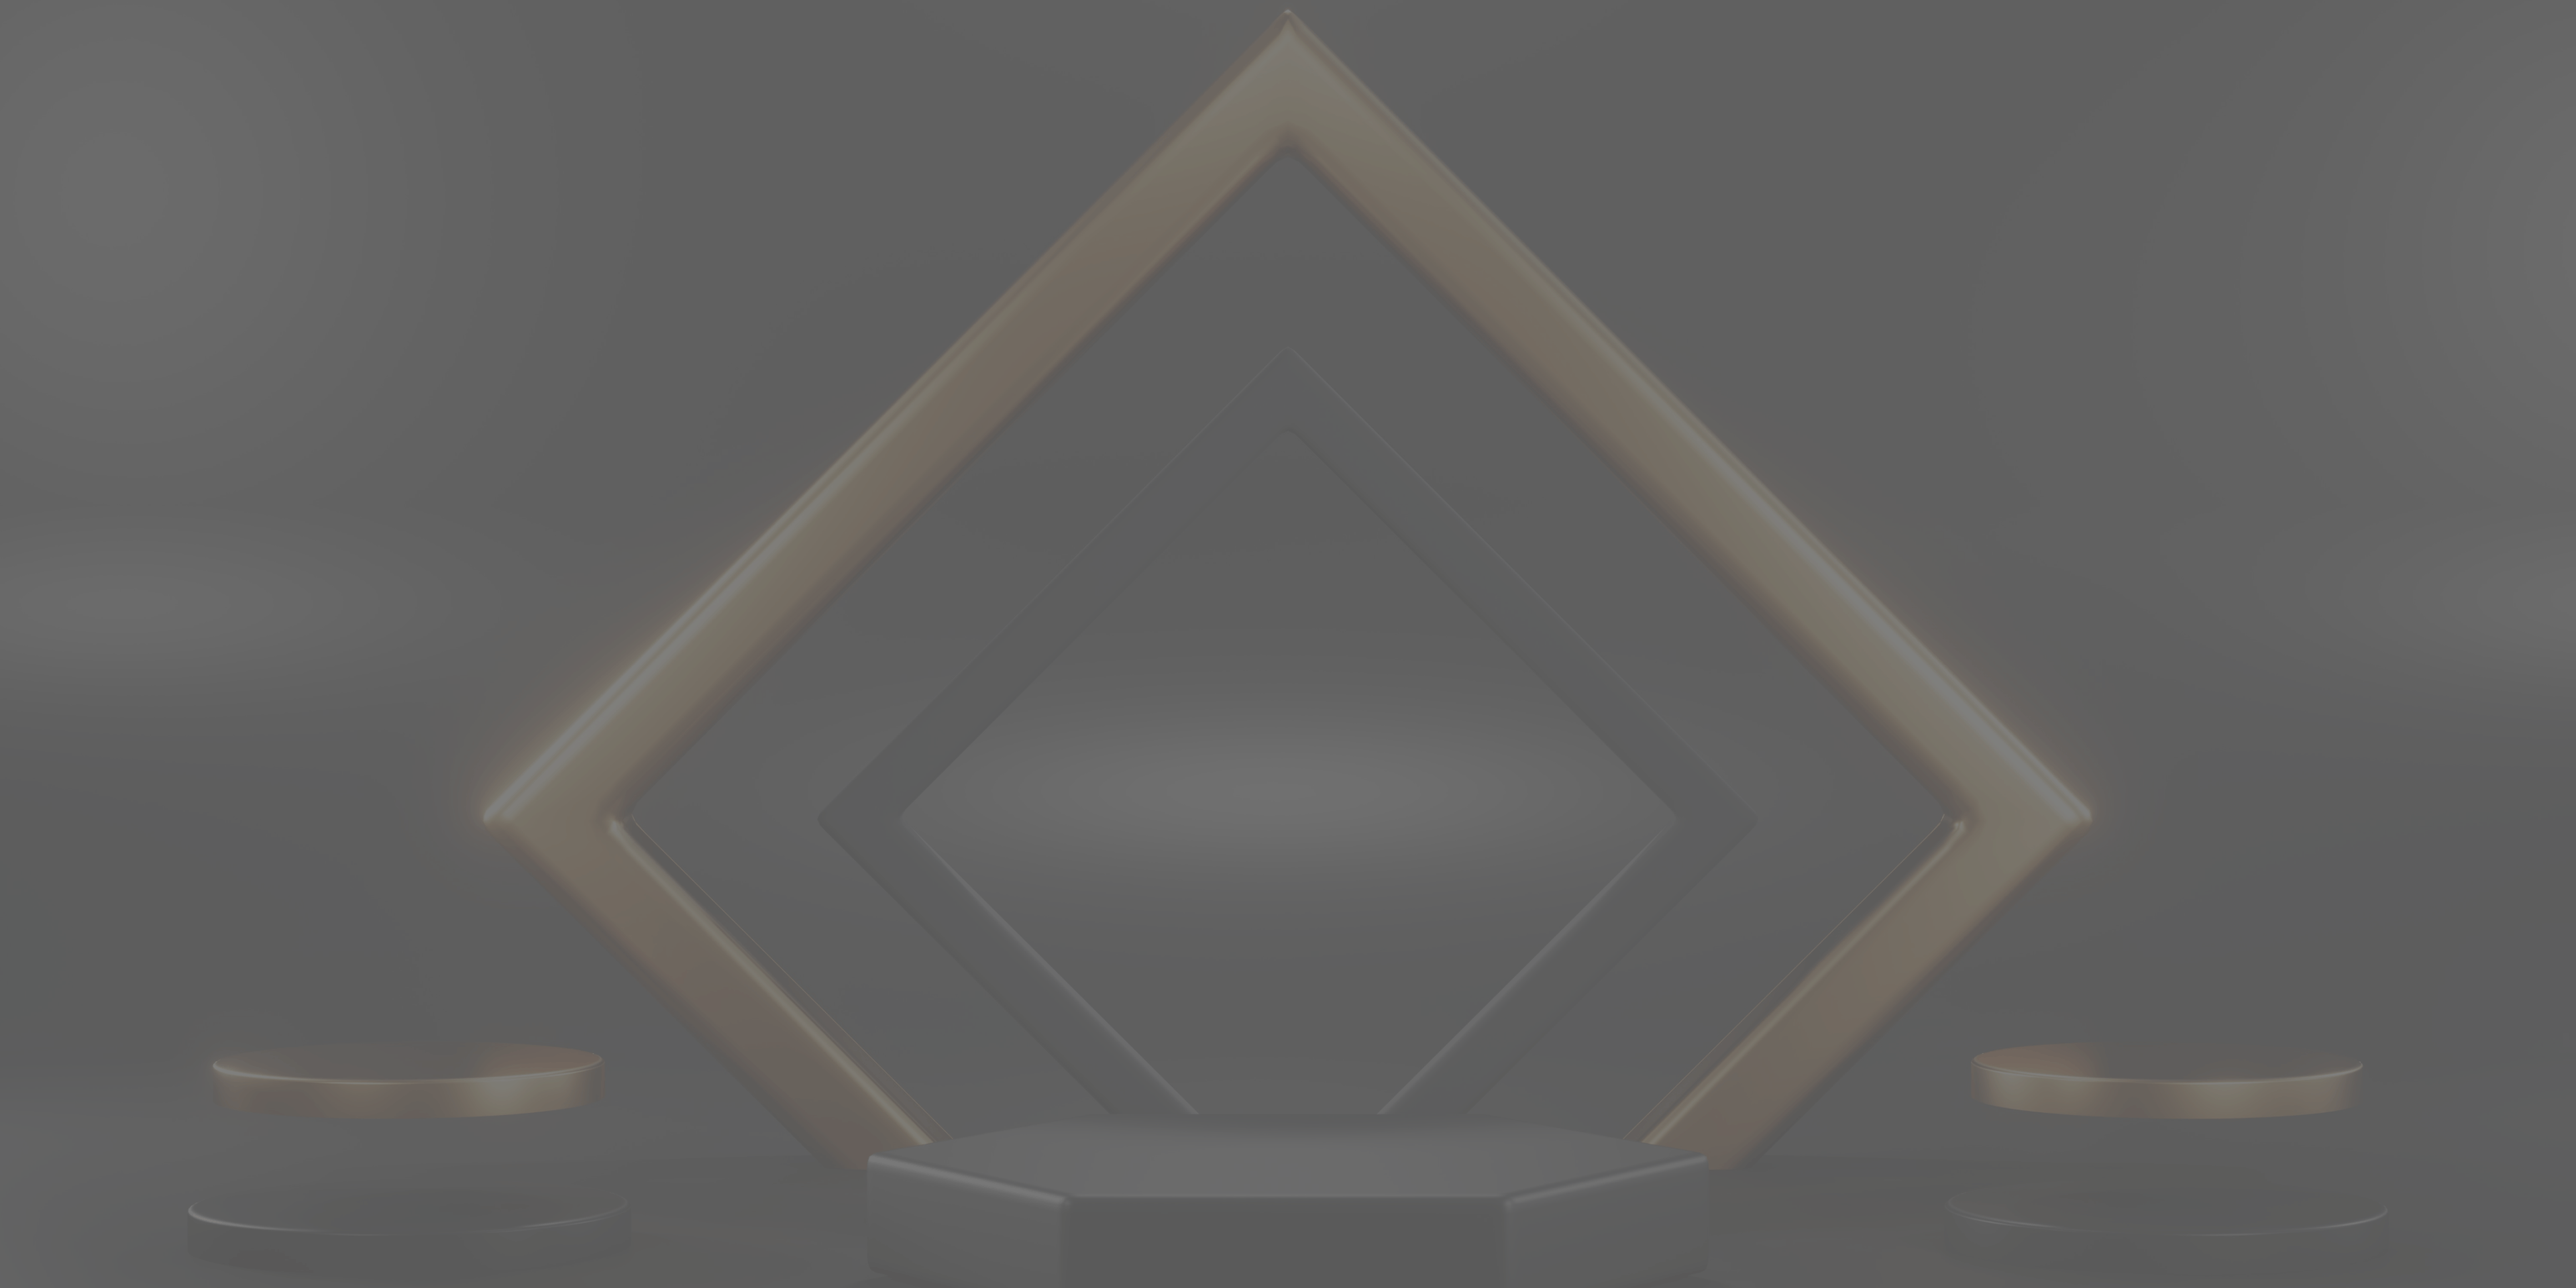
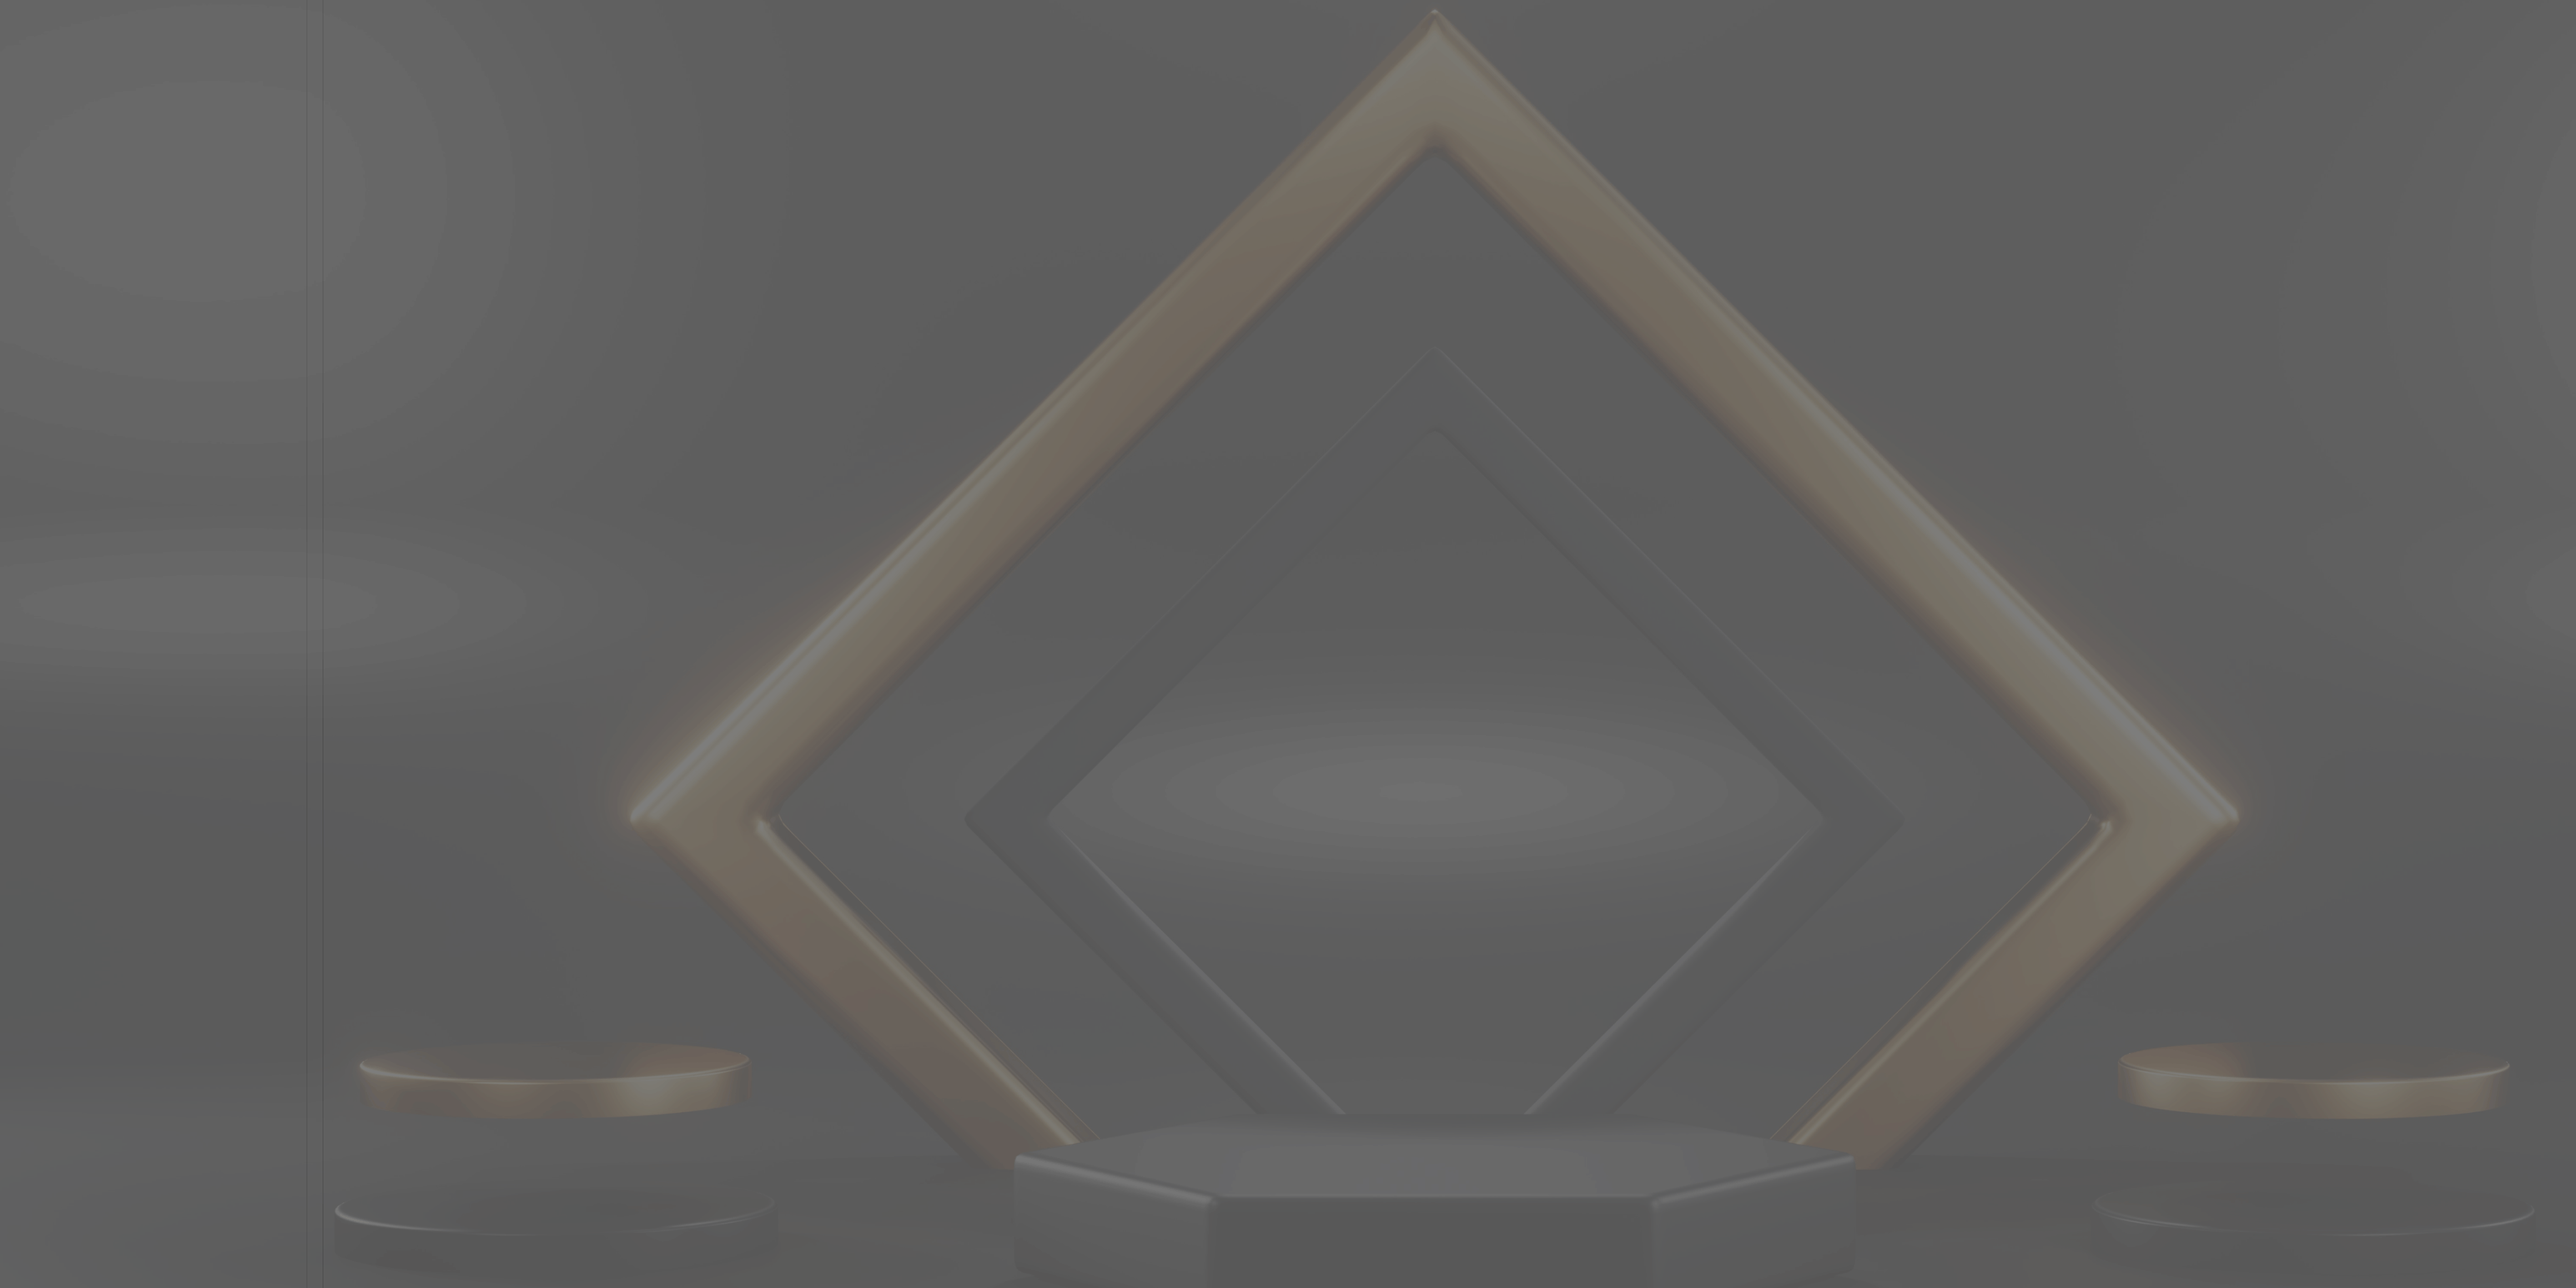
fix: 修复nav组件问题

diff --git a/app/strategy/risk-manage/page.tsx b/app/strategy/risk-manage/page.tsx
@@ -32,19 +32,19 @@ interface Map {
   content: Item[];
 }
 interface Mapping {
-  id: number;
-  value: string;
+  _id: string;
+  title: string;
 }
 
 interface EventHandler {
-  (id: number): void;
+  (id: string): void;
 }
 
 const RiskManage = () => {
   const [current, setCurrent] = useState(0);
   const [noPrev, setNoPrev] = useState(true); // 默认没有上一页
   const [noNext, setNoNext] = useState(false); // 默认还有下一页
-  const [currentNav, setCurrentNav] = useState(1); // 默认选中第一个分类
+  const [currentNav, setCurrentNav] = useState('1'); // 默认选中第一个分类
   const router = useRouter();
   const handleChange = (newData: ChangeData) => {
     const { activeIndex, isBeginning, isEnd } = newData;
@@ -110,16 +110,16 @@ const RiskManage = () => {
   }, [current]);
 
   const category: Mapping[] = [
-    { id: 1, value: "风险控制" },
-    { id: 2, value: "行业分类" }
+    { _id: '1', title: "风险控制" },
+    { _id: '2', title: "行业分类" }
   ];
 
-  const navClick: EventHandler = (id: number) => {
+  const navClick: EventHandler = (id: string) => {
     // setCurrentNav(id)
-    if (id === 1) {
+    if (id === '1') {
       router.push(`/strategy/risk-manage`)
     }
-    if (id === 2) {
+    if (id === '2') {
       router.push(`/strategy/risk-manage/industry-sectors`)
     }
     

diff --git a/app/strategy/investor/page.tsx b/app/strategy/investor/page.tsx
@@ -89,7 +89,7 @@ const Strategy = () => {
   return (
     <main className="flex flex-col h-screen bg-[#131419]">
       <Topbar position="relative" />
-      <div className="flex flex-grow flex-col w-full bg-analysis-bg bg-cover bg-center max-w-[1920px] min-w-[1100px] mx-auto px-[60px]">
+      <div className="flex flex-grow flex-col w-full bg-strategy-bg bg-cover bg-center max-w-[1920px] min-w-[1100px] mx-auto px-[60px]">
         <MainNav navItems={ mainNavList } />        
         <div className="flex flex-grow">
           <div className="w-[1000px] mx-auto text-center self-center mt-[-60px] investor-container">
@@ -107,7 +107,7 @@ const Strategy = () => {
                   className={`${styles.slider}`}
                   items={list}
                   onChange={handleChange}
-                  sliderIndex={0}
+                  sliderIndex={3}
                 />
                 <div
                   onClick={() => handlePrev()}

diff --git a/app/strategy/trade/page.tsx b/app/strategy/trade/page.tsx
@@ -106,7 +106,7 @@ const Strategy = () => {
   return (
     <main className="flex flex-col h-screen bg-[#131419]">
       <Topbar position="relative" />
-      <div className="flex flex-grow flex-col w-full bg-analysis-bg bg-cover bg-center max-w-[1920px] min-w-[1100px] mx-auto px-[60px]">
+      <div className="flex flex-grow flex-col w-full bg-strategy-bg bg-cover bg-center max-w-[1920px] min-w-[1100px] mx-auto px-[60px]">
         <MainNav navItems={ mainNavList } />        
         <div className="flex flex-grow">
           <div className="w-[1000px] mx-auto text-center self-center translate-y-[-60px] learn-container">

diff --git a/components/topbar.tsx b/components/topbar.tsx
@@ -104,7 +104,7 @@ const Topbar: React.FC<TopbarProps> = ({ position }) => {
             <div className="flex self-center relative">
               <input
                 ref={inputRef}
-                placeholder="Search"
+                placeholder="关键字"
                 type="text"
                 value={keywords}
                 onChange={keywordsChange}

diff --git a/tailwind.config.ts b/tailwind.config.ts
@@ -16,6 +16,7 @@ const config: Config = {
         "intro-4": "url('/intro4.png')",
         "login-bg": "url('/login-bg.png')",
         "analysis-bg": "url('/analysis-bg.png')",
+        "strategy-bg": "url('/strategy-bg.png')",
       },
       colors: {
         // 在这里添加自定义颜色
